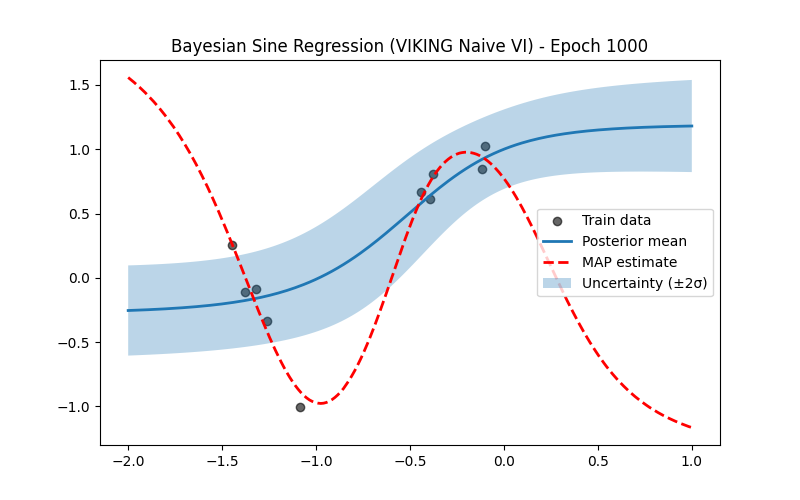
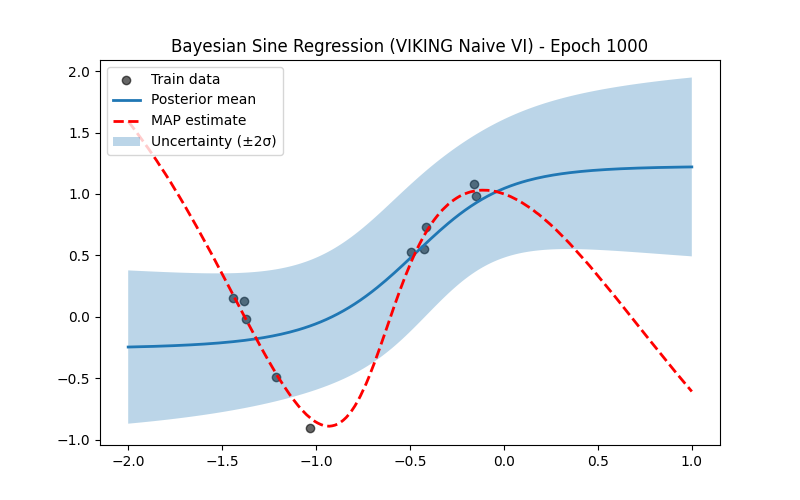
alpha results, still shit but no collapse at least

diff --git a/experiments/VIKING_sine_curve_GGN.py b/experiments/VIKING_sine_curve_GGN.py
@@ -115,7 +115,7 @@ def main():
     _, sample_key = jax.random.split(jax.random.PRNGKey(SEED))
 
     params_opt = {
-        "prior_vec": prior_vec,
+        #"prior_vec": prior_vec,
         "theta": params_vec,
         "sigma_ker": jnp.log(sigma_kernel),
         "sigma_im": jnp.log(sigma_image),
@@ -136,8 +136,7 @@ def main():
         )
         # koristi model_fn_vec iz scope-a
         rec_term = reconstruction_term(model_fn_vec, thetas, x, y)
-        kl = KL_term(
-            prior_vec=prior_vec,
+        kl = KL_term_alpha(
             theta_hat=params_opt["theta"],
             log_sigma_ker=params_opt["sigma_ker"],
             log_sigma_im=params_opt["sigma_im"],

diff --git a/src/plotting/naive_sine_plots.py b/src/plotting/naive_sine_plots.py
@@ -67,4 +67,4 @@ def predict_and_plot_bayesian_mean_for_epoch(post_key, model_fn_vec, params_opt_
 
     plt.legend()
     plt.title(f"Bayesian Sine Regression (VIKING Naive VI) - Epoch {epoch}")
-    plt.savefig(f"results/plots/per_epoch/prior_vec/Mean_Bayesian_with_MAP_epoch_{epoch}.png")
+    plt.savefig(f"results/plots/per_epoch/alpha/Mean_Bayesian_with_MAP_epoch_{epoch}.png")
